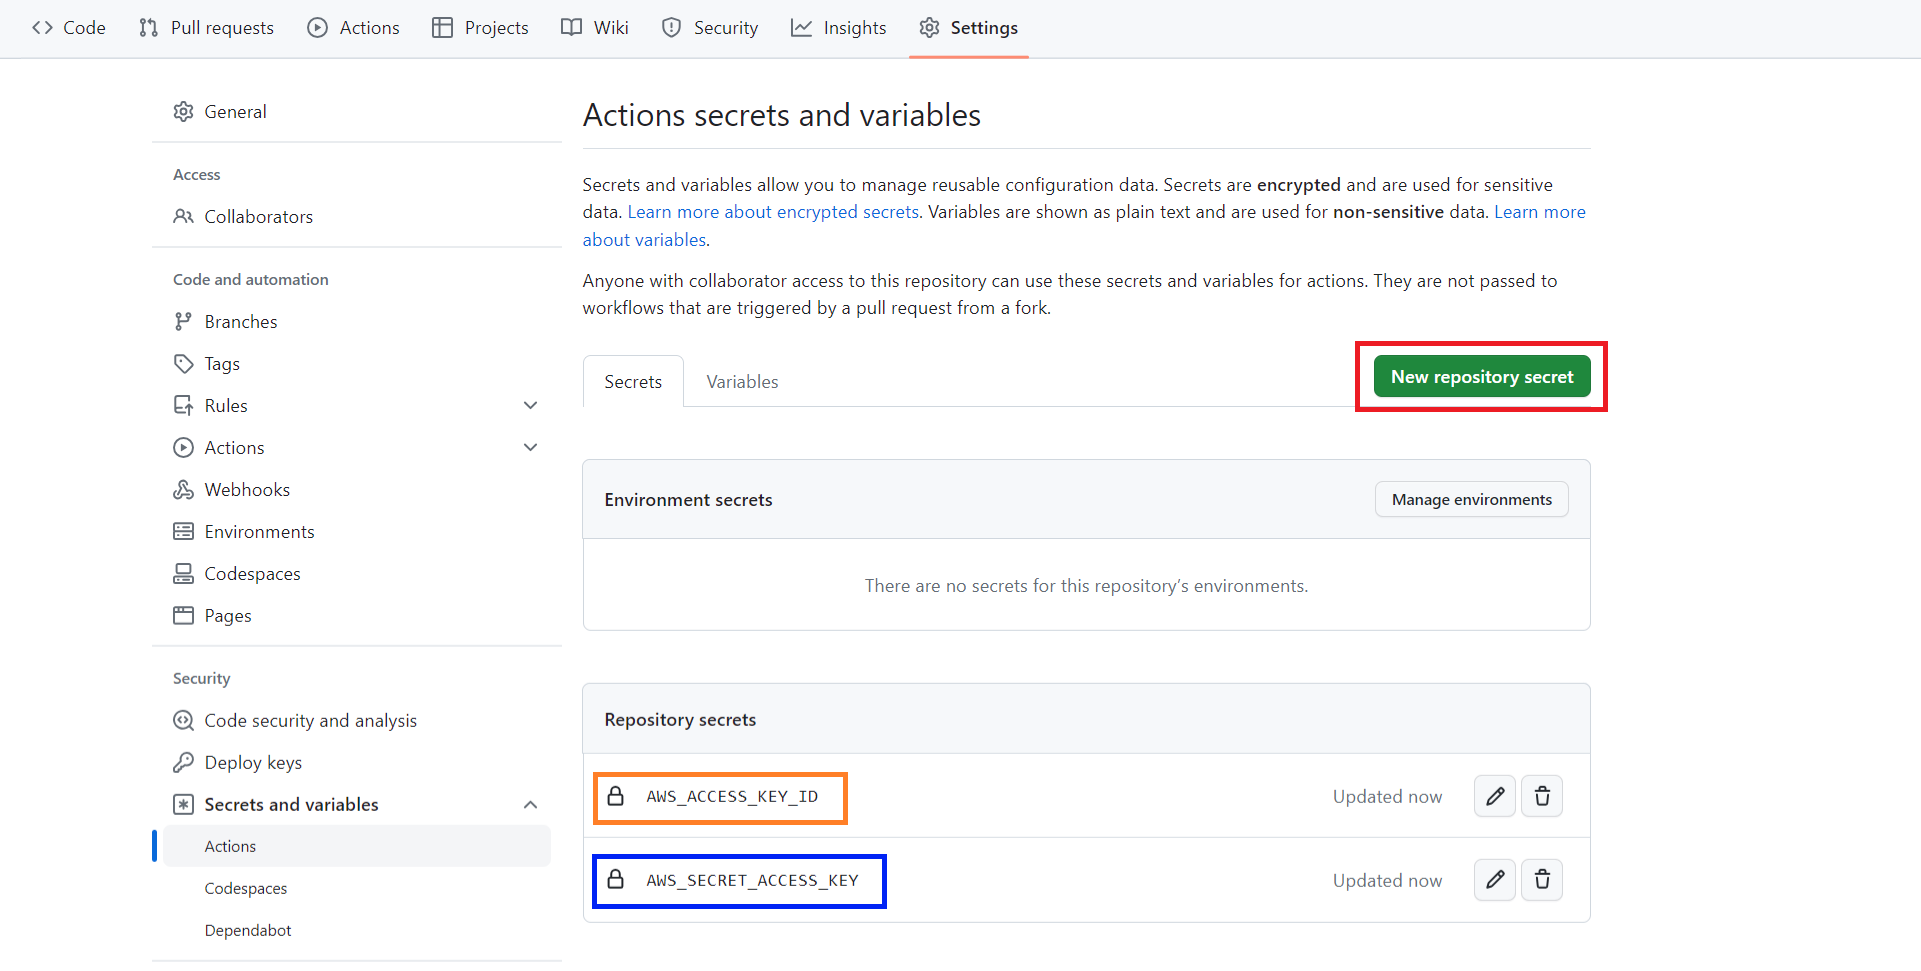
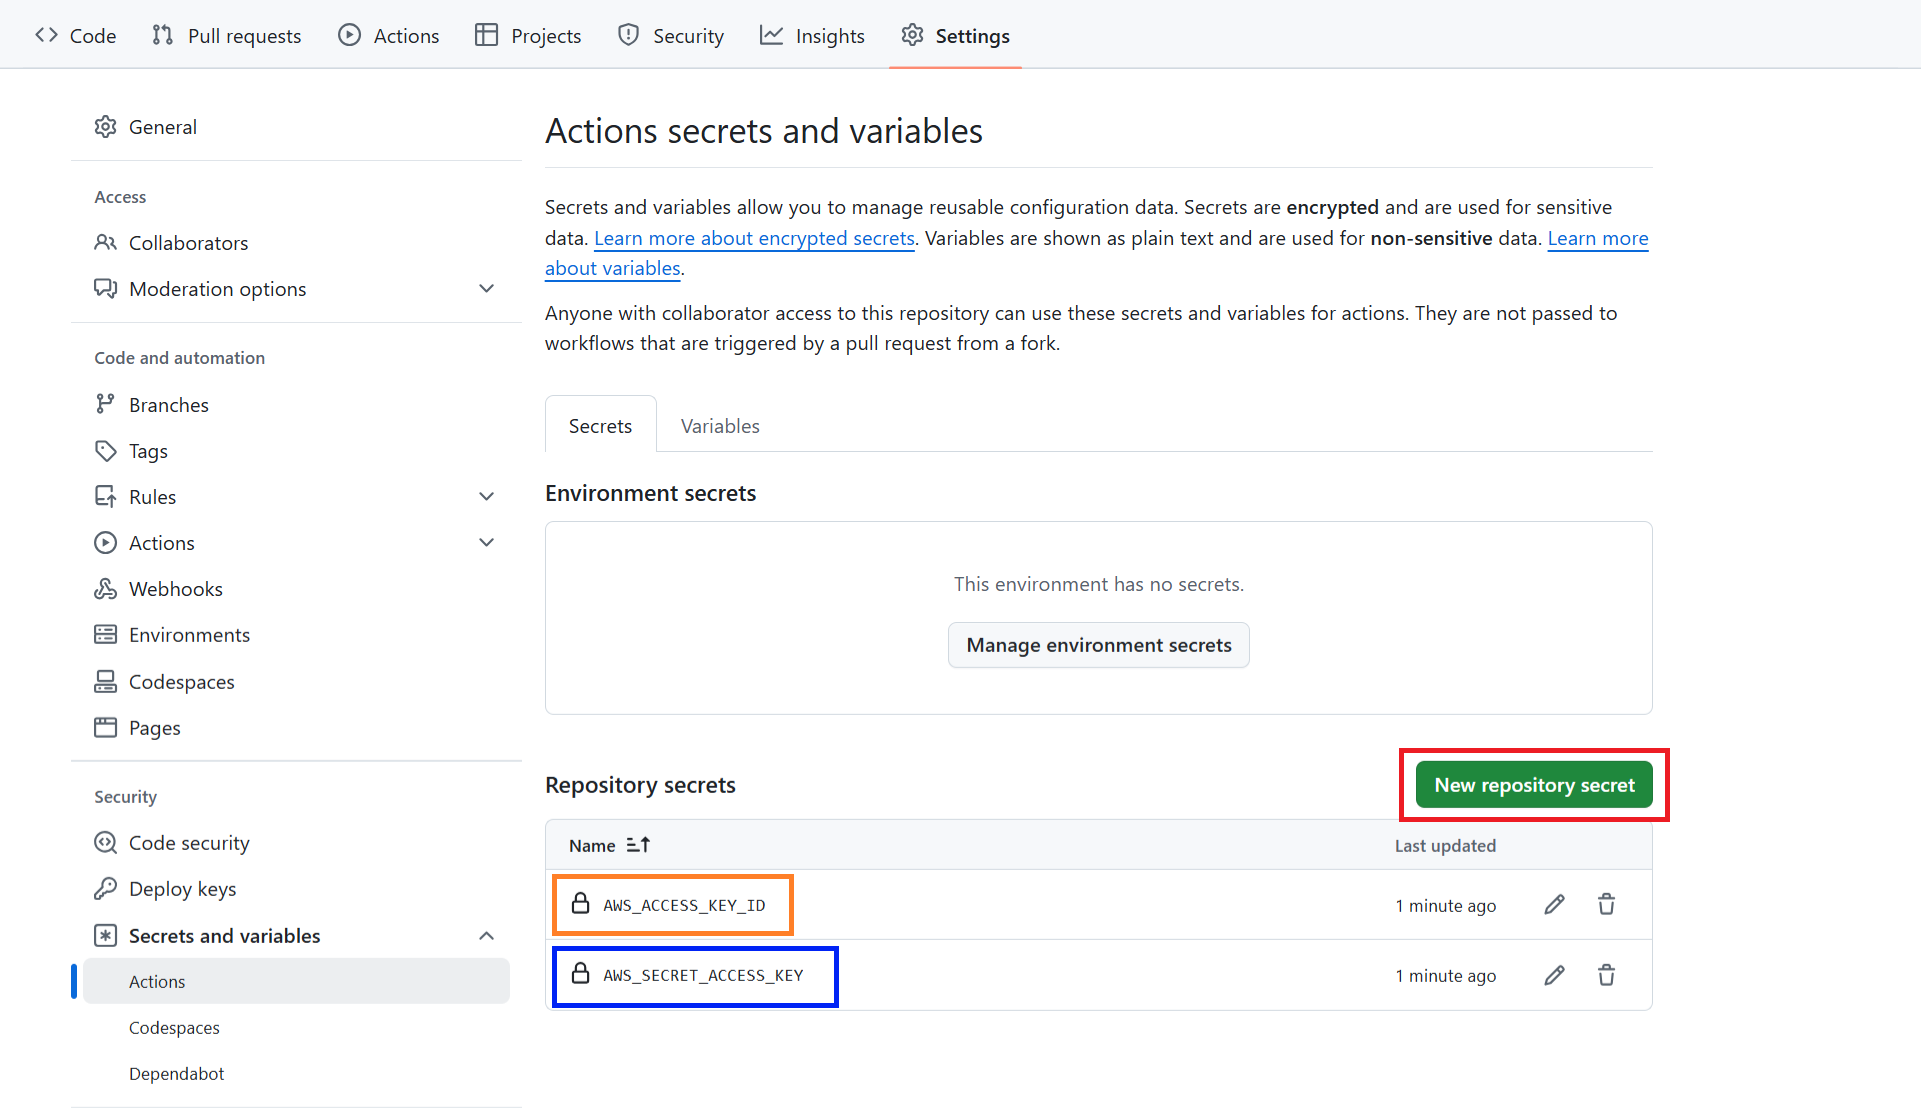
Update guide and images

diff --git a/README.md b/README.md
@@ -22,15 +22,17 @@ Before starting, ensure that you have the following:
 
 ## Setup
 
-1. Fork and then clone the repository https://github.com/CS3219-AY2324S1/SE-Toolbox-CD-GH-Actions-AWS.git to your device. 
+1. Fork and then clone the repository https://github.com/nus-CS3219/CS3219-CD-GH-AWS-Code.git to your device.
 
-   > ℹ️ About the project: The repository contains the backend code of an address book application, one that is similar to what you have seen in CS2103/T or CS2113/T but developed in JavaScript. The backend is equipped with basic functionalities, including the ability to add, retrieve, edit, and delete information, by connecting to MongoDB Atlas – a cloud database. Furthermore, the `test` directory includes a set of integration tests. 
+   > ℹ️ About the project: The repository contains the backend code of an address book application, one that is similar to what you have seen in CS2103/T or CS2113/T but developed in JavaScript. The backend is equipped with basic functionalities, including the ability to add, retrieve, edit, and delete information, by connecting to MongoDB Atlas – a cloud database.
 
 2. Install all dependencies by running `npm install` in the project directory.
 
-3. Next, set up a cloud MongoDB database on MongoDB Atlas and obtain the connection URI. Update the `CLOUD_URI` environment variable inside `.env` to point to this cloud database. After this, you can try running the application locally using `npm start`.
+3. Set up a cloud MongoDB database on MongoDB Atlas and obtain the connection string. Create a copy of the `.env.sample` file and name it `.env`. Update the `CLOUD_URI` environment variable inside `.env` to point to the cloud database.
 
-   Go to [`localhost:8080`](http://localhost:8080/) and you should be able to see “Welcome to Address Book!”.
+4. Start the application locally using `npm start`.
+
+   Go to [`localhost:8080`](http://localhost:8080/) and you should be able to see “Welcome to Address Book with CD!”.
 
    You can also use Postman to test CRUD operations on the API locally. By using the cloud database, you are now testing the application in a local deployment scenario without using a local database.
 
@@ -40,23 +42,19 @@ We will first manually deploy the backend of the address book app to AWS Elastic
 
 Amazon Web Services (AWS) is a cloud computing platform that allows developers to run their applications and services in the cloud without managing the underlying infrastructure, making it easier for developers to deploy and manage their applications.
 
-AWS Elastic Beanstalk is a service within AWS that makes deploying web applications simple. It handles the complexities of infrastructure setup, scaling, and deployment, allowing developers to focus on writing code.
+AWS Elastic Beanstalk is a fully managed orchestration service within AWS that makes deploying web applications simple. It handles the complexities of infrastructure setup, scaling, and deployment, allowing developers to focus on writing code.
 
 When you deploy your web application to AWS Elastic Beanstalk, it involves a few important parts:
 
 - **Application**: This is the web application or API that you want to run in the cloud.
-
 - **Environment**: It’s like a configuration/setup that specifies how your application will run on AWS. You can have different environments for testing, staging, or production.
-
 - **EC2** **Instances (Elastic Compute Cloud)**: These are virtual servers in the cloud that host/run your application.
-
 - **S3 Bucket (Simple Storage Service)**: It might be used to store your application’s versions and files.
-
+- **Application Version**: An application version refers to a specific labeled version of your application’s code that you upload, enabling you to roll back to a previous version if needed. Each version points to an S3 object where the deployable application code is stored.
 - **Load Balancer**: It helps distribute incoming traffic across multiple EC2 instances for better performance and reliability.
-
 - **Security Groups**: These are like virtual firewalls for EC2 instances and other AWS resources. They control the inbound and outbound traffic for these resources, e.g., permit or deny specific types of traffic based on source and destination IP addresses.
-
-- **IAM Roles (Identity and Access Management)**: These provide permissions for resources to access other AWS services securely.
+- **IAM Role (Identity and Access Management)**: An IAM role is an identity that has a set of permissions. It is similar to a user, but isn't tied to a specific individual and does not have long-term credentials. Instead, when you assume a role, it provides you with temporary security credentials to access resources.
+- **Identity-based policies**: These are JSON documents that define permissions, i.e., specifying which actions can be performed on which AWS resources. Policies are attached to roles to grant specific permissions.
 
 <br>
 
@@ -66,23 +64,59 @@ Now follow these steps to manually deploy the backend of the address book app:
 
 If you haven’t already, sign up for an AWS account at https://aws.amazon.com/. Once you have your AWS account ready, navigate to the AWS Management Console.
 
-#### Step 2. Create an Elastic Beanstalk Application
+#### Step 2. Create an Elastic Beanstalk Application and Environment
 
-**2.1** In the AWS Management Console, search for and navigate to the **Elastic Beanstalk** service. In the navigation bar, choose `Asia Pacific (Singapore)` `ap-southeast-1` as the region.
+**2.1** In the AWS Management Console, search for and navigate to the **Elastic Beanstalk** service. In the navigation bar, choose `Asia Pacific (Singapore)` `ap-southeast-1` as the region. Alternatively, you can use this [direct link](https://ap-southeast-1.console.aws.amazon.com/elasticbeanstalk/home?region=ap-southeast-1#/welcome).
 
-**2.2** Choose "Create application".
+**2.2** Choose **Create application**.
 
 ![](./images/1.png)
 
-**2.3** Enter a name for your application (e.g., `AddressBookApp`) and select the platform as "Node.js". Keep the default settings for all other places. (Feel free to explore other settings for your own interest:wink:)
+**2.3** Under **Application name**, enter a name for the application (e.g., `AddressBookApp`). The **Environment name** below will be auto-populated.
+
+**2.4** Under **Platform**, select **Node.js** as the platform, since our application is built using Node.js.
+
+**2.5** Keep the default settings for all other places, then choose **Next**. (Feel free to explore other settings for your own interest:wink:)
 
 ![](./images/2.png)
 
 ![](./images/3.png)
 
-Then choose “Next” > “Skip to review” > “Submit”. Elastic Beanstalk is now creating a new *application* along with a new web server *environment* named `AddressBookApp-env` to execute its sample application.
+---
 
-**2.4** Please wait until the health status of the environment changes to "Ok". Once it’s ready, you can access the sample application at the auto-generated domain.
+#### Intermission: Configuring Service Access
+
+Now, we are at **Step 2 - Configure service access** in the console. This step requires us to set up some necessary permissions for the application to work properly within AWS. Here’s why it matters:
+
+As an orchestration service, *Elastic Beanstalk* needs to interact with various other AWS services. For example, it manages the creation and operation of EC2 instances (the servers running the app), sets up load balancers, and so on. To do these securely, we need to explicitly grant Elastic Beanstalk the necessary permissions through an *IAM role*, which is called the "**service role**" - essentially, a set of permissions.
+
+On the other hand, the *EC2 instance* also require permissions to perform certain tasks, such as retrieving our application's code (which we will upload later) from S3. We configure these permissions through an "**EC2 instance profile**", which is a wrapper around an IAM role - essentially, another set of permissions.
+
+If you expand the **EC2 instance profile** dropdown, it may be empty at the moment. In the past, Elastic Beanstalk could automatically create both the service role and instance profile when an AWS account first created an environment. However, due to recent changes in AWS security guidelines, we now need to manually create an instance profile first, then instruct Elastic Beanstalk to use it. If you already see the default `aws-elasticbeanstalk-ec2-role` in the list, you can simply choose it and proceed to the next step.
+
+To create a new instance profile/IAM role, you can follow [these simple steps in the AWS documentation](https://docs.aws.amazon.com/elasticbeanstalk/latest/dg/iam-instanceprofile.html#iam-instanceprofile-create).
+
+- Remember, an IAM role defines a set of permissions via policies. In step 6 of the process, you may assign all of the 3 default policies recommended by Elastic Beanstalk. You can find these by clicking **View permission details** under the EC2 instance profile dropdown. Simply search for the policy names and select them.
+
+  ![](./images/15.png)
+
+- For step 8, you can either use a custom name or stick with the default `aws-elasticbeanstalk-ec2-role`.
+
+![](./images/16.png)
+
+Once you've created the IAM role, return to **Step 2 - Configure service access**. Refresh the list under **EC2 instance profile**, and you should see the instance profile you just created.
+
+---
+
+**2.6** Under **Service role**, choose **Create and use new service role** (or choose an existing one if available in the dropdown).
+
+**2.7** Under **EC2 instance profile**, choose the instance profile you just created (or your existing one if you already had it).
+
+![](./images/17.png)
+
+**2.8** We will keep all other settings at their default values. Choose **Skip to review**, and then **Submit**. Elastic Beanstalk will now create a new *application* along with a new web server *environment* named `AddressBookApp-env` to run its sample application.
+
+**2.9** Wait for the environment's health status to change to "Ok". This may take a few minutes. Once it’s ready, you can access the sample application at the auto-generated domain.
 
 ![](./images/4.png)
 
@@ -90,17 +124,20 @@ Then choose “Next” > “Skip to review” > “Submit”. Elastic Beanstalk 
 
 #### Step 3. Prepare Application for Deployment
 
-In your local development environment, create a zip file named `address-book-app.zip` containing all the application files. You can omit the `node_modules` folder, as Elastic Beanstalk will install the dependencies in production mode as specified in `package.json`.
+In your local development environment, create a zip file named `address-book-app.zip` containing all the application files.
+
+- You can omit the `node_modules` folder, as Elastic Beanstalk will install the dependencies in production mode as specified in `package.json`.
+- For now, include the `.env` file in the zip, as it contains the cloud database connection string required for the application.
 
 #### Step 4. Deploy Application
 
 **4.1** Return to the AWS Elastic Beanstalk dashboard and navigate to the environment you created earlier.
 
-**4.2** Choose “Upload and deploy”.
+**4.2** Choose **Upload and deploy**.
 
-**4.3** Upload the zip file you just created. Then in the "Version label" field, enter a version name for this deployment (e.g., `1.0.0`).
+**4.3** Upload the zip file you just created. Then in the **Version label** field, enter a version name for this deployment (e.g., `1.0.0`).
 
-**4.4** Choose "Deploy" to start the deployment process.
+**4.4** Choose **Deploy** to start the deployment process.
 
 ![](./images/6.png)
 
@@ -118,25 +155,25 @@ For GitHub to interact with AWS services securely, we need to provide the necess
 
 **1.1** In the AWS Management Console, search for and navigate to the **IAM** service.
 
-**1.2** In the IAM console, select "Users" in the left navigation pane and then select "Create user".
+**1.2** In the IAM console, select **Users** in the left navigation pane and then select **Create user**.
 
 ![](./images/8.png)
 
-**1.3** Enter a unique username (e.g., `AddressBookDeployUser`) and select “Next”.
+**1.3** Enter a unique username (e.g., `AddressBookDeployUser`) and select **Next**.
 
 ![](./images/9.png)
 
-**1.4** In the "Set permissions" section, select "Attach policies directly", then search for and select "AdministratorAccess-AWSElasticBeanstalk" policy. This policy grants the permissions to access the Elastic Beanstalk service. Then select “Next” > “Create user”.
+**1.4** In the **Set permissions** section, select **Attach policies directly**, then search for and select "AdministratorAccess-AWSElasticBeanstalk" policy. This policy grants the permissions to access the Elastic Beanstalk service. Then choose **Next**, and finally **Create user**.
 
 ![](./images/10.png)
 
-**1.5** After the user is created, navigate to the "Security credentials" tab for the user. Under "Access keys", choose "Create access key" to generate a new access key for the user. You can select “Other” in the “Access key best practices & alternatives” section.
+**1.5** After the user is created, navigate to the **Security credentials** tab for the user. Under **Access keys**, choose **Create access key** to generate a new access key for the user. You can select **Other** in the **Access key best practices & alternatives** section.
 
 ![](./images/11.png)
 
 ![](./images/12.png)
 
-**1.6** Go to your GitHub repository, select "Settings" > "Secrets and variables" > “Actions”, and add the *Access Key ID* as `AWS_ACCESS_KEY_ID` and the *Secret Access Key* as `AWS_SECRET_ACCESS_KEY`.
+**1.6** In your GitHub repository, navigate to **Settings** >> **Secrets and variables** >> **Actions**, and add the *Access key* as `AWS_ACCESS_KEY_ID` and the *Secret access key* as `AWS_SECRET_ACCESS_KEY`.
 
 ![](./images/13.png)
 
@@ -144,13 +181,13 @@ For GitHub to interact with AWS services securely, we need to provide the necess
 
 #### Step 2: Create an Automated Deployment Workflow
 
-1. Create a `.github` directory in the root of your project
+**2.1** Create a `.github` directory in the root of your project
 
-2. Inside the `.github` directory, create another directory named `workflows`
+**2.2** Inside the `.github` directory, create another directory named `workflows`
 
-3. Inside the `workflows` directory, create a new file named `cd.yml`
+**2.3** Inside the `workflows` directory, create a new file named `cd.yml`
 
-4. Add the following code inside `cd.yml`:
+**2.4** Add the following code inside `cd.yml`:
 
 ```yaml
 name: CD Pipeline
@@ -166,22 +203,22 @@ jobs:
 
     steps:
       - name: Checkout repository
-        uses: actions/checkout@v3
+        uses: actions/checkout@v4
 
       - name: Setup Node.js
-        uses: actions/setup-node@v3
+        uses: actions/setup-node@v4
         with:
           node-version: '18.x'
           cache: 'npm'
 
       - name: Generate deployment package
-        run: zip -r address-book-app.zip config controllers models routes index.js package.json .env
+        run: zip -r address-book-app.zip config controllers models routes index.js package.json
 
       - name: Get Node.js version
         run: echo "VERSION=$(node -p 'require("./package.json").version')" >> "$GITHUB_ENV"
 
       - name: Deploy to EB
-        uses: einaregilsson/beanstalk-deploy@v21
+        uses: einaregilsson/beanstalk-deploy@v22
         with:
           aws_access_key: ${{ secrets.AWS_ACCESS_KEY_ID }}
           aws_secret_key: ${{ secrets.AWS_SECRET_ACCESS_KEY }}
@@ -218,9 +255,36 @@ The **`with`** section provides input parameters for the `beanstalk-deploy` acti
 
 - The "Get Node.js version" step fetches the application version from `package.json` and saves it as the GitHub environment variable `VERSION`. The **`version_label`** is then set to the value of `VERSION`, eliminating the need for manual version updates in the workflow file.
 
+
+#### Step 3: Configure Environment Variables in AWS
+
+The final step is to configure the database connection string in Elastic Beanstalk, as it's best practice not to commit sensitive information, like database credentials, to GitHub.
+
+**3.1** In the AWS Management Console, navigate to the Elastic Beanstalk service and select your environment (`AddressBookApp-env`) in the left navigation pane. Ensure the correct region is selected to view your applications and environments.
+
+**3.2** In the navigation pane, choose **Configuration**. This will display all the configurations for the environment.
+
+**3.3** Scroll to the **Updates, monitoring, and logging** category and choose **Edit**.
+
+![](./images/18.png)
+
+**3.4** Scroll to the bottom and select **Add environment property**.
+
+**3.5** Add your MongoDB Atlas connection string:
+
+- For **Name**, enter `MONGO_URI`
+- For **Value**, paste your MongoDB Atlas connection string (the same one from your `.env` file)
+
+![](./images/19.png)
+
+**3.6** Choose "Apply" to save the changes. The environment update may take a while.
+
 ### 📖 **Observe CD with GitHub Actions**
 
-Make some minor changes to your address book app, then commit and push the changes to the `master` branch. Check whether your changes have been automatically deployed to AWS Elastic Beanstalk. Don’t forget to update the version number in `package.json` (e.g., `1.0.1`).
+1. Make some minor changes to your address book app.
+2. Update the version number in `package.json` (e.g., change it to `1.0.1`).
+3. Commit and push the changes to the `master` branch of your cloned GitHub repository.
+4. Monitor the GitHub Actions workflow and your AWS Elastic Beanstalk environment to verify that the changes are automatically deployed.
 
 <br>
 
@@ -232,6 +296,8 @@ The following resources were used in the creation of this guide:
 GitHub Docs - Building and testing Node.js: https://docs.github.com/en/actions/automating-builds-and-tests/building-and-testing-nodejs
 
 AWS Documentation: https://docs.aws.amazon.com/
+
+Managing Elastic Beanstalk instance profiles: https://docs.aws.amazon.com/elasticbeanstalk/latest/dg/iam-instanceprofile.html
 
 AWS Elastic Beanstalk Tutorial: https://youtu.be/jnMUp2c9AzA
 
@@ -252,3 +318,11 @@ Deploying an Express application to Elastic Beanstalk using Elastic Beanstalk Co
 Deploying to AWS Elastic Beanstalk with GitHub Actions: https://leonardqmarcq.com/posts/github-actions-cicd-elastic-beanstalk
 
 Deploying a Docker application (React) to AWS Elastic Beanstalk: https://akashsingh.blog/complete-guide-on-deploying-a-docker-application-react-to-aws-elastic-beanstalk-using-docker-hub-and-github-actions
+
+Getting started with Elastic Beanstalk: https://docs.aws.amazon.com/elasticbeanstalk/latest/dg/GettingStarted.html
+
+Elastic Beanstalk Service roles, instance profiles, and user policies: https://docs.aws.amazon.com/elasticbeanstalk/latest/dg/concepts-roles.html
+
+Policies and permissions in AWS Identity and Access Management: https://docs.aws.amazon.com/IAM/latest/UserGuide/access_policies.html
+
+IAM roles: https://docs.aws.amazon.com/IAM/latest/UserGuide/id_roles.html